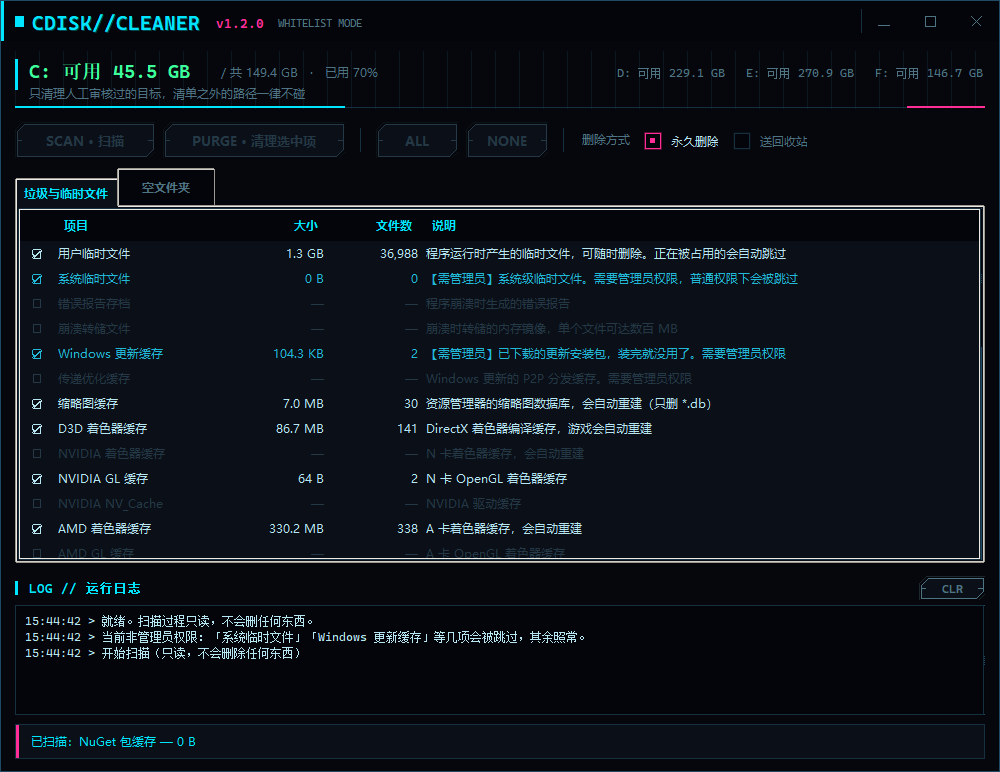
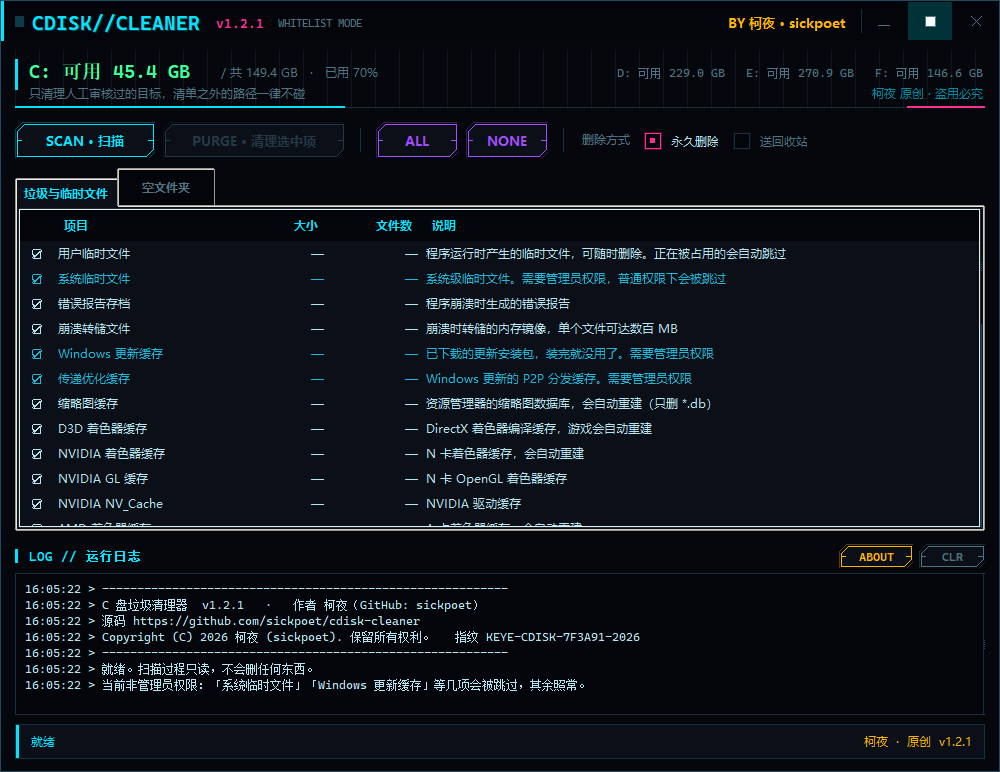
feat: 全链路加上作者署名，提高抄袭成本
- 新增 __author__/__author_id__/__copyright__/__homepage__/FINGERPRINT 常量
- 五处常驻署名：标题栏 BY 柯夜、窗口标题、仪表盘右下角水印、
  状态条右侧（可点击）、启动日志横幅
- 日志栏加 ABOUT 按钮，配「关于」对话框（作者/版本/仓库/指纹）
- 支持 cdisk_cleaner.py --version 输出作者与指纹
- exe 版本资源：公司名改为柯夜，版权与备注带仓库地址
- 四份 .py 补版权头；LICENSE 版权行与 README「作者与出处」章节
- 模块文档字符串内嵌零宽字符水印，可解码还原作者标识
- selftest 新增「署名与出处」6 项（含水印解码），署名被抹 CI 立刻红
- 刷新 README 截图，版本 1.2.1 -> 1.2.2

diff --git a/cdisk_cleaner.py b/cdisk_cleaner.py
@@ -13,10 +13,25 @@ C 盘垃圾清理器
 4. 空目录单列：默认不勾选，且强制跳过系统保护区。
 
 只用标准库，零第三方依赖。
+
+作者：柯夜（GitHub: sickpoet）
+版权：Copyright (C) 2026 柯夜。保留所有权利。
+源码：https://github.com/sickpoet/cdisk-cleaner
+
+
 """
 
-__version__ = "1.2.1"
+__version__ = "1.2.2"
+__author__ = "柯夜"
+__author_id__ = "sickpoet"
+__copyright__ = "Copyright (C) 2026 柯夜 (sickpoet). 保留所有权利。"
+__homepage__ = "https://github.com/sickpoet/cdisk-cleaner"
 APP_NAME = "C 盘垃圾清理器"
+
+# 出处指纹：同一串同时写进 exe 文件属性、启动日志与「关于」对话框，
+# 用来证明这份程序出自上述仓库。
+FINGERPRINT = "KEYE-CDISK-7F3A91-2026"
+SIGN_LINE = "柯夜 原创 · 盗用必究"
 
 import ctypes
 import glob
@@ -1217,7 +1232,8 @@ class CleanerApp(object):
 
         pick_fonts(root)
         _set_window_icon(root)
-        root.title("%s  ::  v%s" % (APP_NAME, __version__))
+        root.title("%s  v%s   ·   by %s" % (APP_NAME, __version__,
+                                              __author__))
         # 根窗口底色当窗口外框用：内容区四周留 1px 露出它
         root.configure(bg=BORDER_HI)
         root.geometry("1000x772")
@@ -1250,6 +1266,7 @@ class CleanerApp(object):
             apply_dark_titlebar(root)
         self._build_ui()
         self._refresh_drive_info()
+        self._log_banner()
         self.log("就绪。扫描过程只读，不会删任何东西。")
         if not is_admin():
             self.log("当前非管理员权限：「系统临时文件」「Windows 更新缓存」"
@@ -1338,10 +1355,13 @@ class CleanerApp(object):
         NeonButton(log_head, "CLR", lambda: self.log_text.delete("1.0", "end"),
                    width=66, height=24, color=TEXT_DIM,
                    font=(FONT_EN, 9, "bold")).pack(side="right")
+        NeonButton(log_head, "ABOUT", lambda: self._show_about(),
+                   width=74, height=24, color=AMBER,
+                   font=(FONT_EN, 9, "bold")).pack(side="right", padx=(0, 6))
 
         logf = tk.Frame(body, bg=BG)
         self.log_text = tk.Text(
-            logf, height=6, wrap="none", font=(FONT_EN, 9),
+            logf, height=8, wrap="none", font=(FONT_EN, 9),
             bg=BG_DEEP, fg=TEXT, insertbackground=CYAN, relief="flat",
             borderwidth=0, padx=9, pady=6,
             selectbackground="#10465c", selectforeground="#ffffff",
@@ -1362,6 +1382,13 @@ class CleanerApp(object):
         self.status = tk.Label(statusbar, text="就绪", bg=PANEL, fg=CYAN,
                                font=(FONT_UI, 9), anchor="w", padx=10, pady=6)
         self.status.pack(side="left", fill="x", expand=True)
+        # 常驻署名：任何界面状态下都在，截图必然带上。点它开「关于」
+        self._sign = tk.Label(
+            statusbar, text="%s  ·  原创  v%s" % (__author__, __version__),
+            bg=PANEL, fg=AMBER, font=(FONT_UI, 9), anchor="e",
+            padx=10, pady=6, cursor="hand2")
+        self._sign.pack(side="right")
+        self._sign.bind("<Button-1>", lambda _e: self._show_about())
 
         # --- 布局顺序：pack 按调用顺序分配空间，先来的先拿到固定高度。
         # 日志与状态条用 side="bottom" 自下而上贴边，Notebook 最后 pack 吃剩余空间。
@@ -1415,6 +1442,9 @@ class CleanerApp(object):
         self.head.create_text(14, 42, anchor="w", fill=TEXT_DIM,
                               font=(FONT_UI, 9),
                               text="只清理人工审核过的目标，清单之外的路径一律不碰")
+        # 右下角署名水印，跟随窗口宽度右对齐
+        self.head.create_text(w - 2, 42, anchor="e", fill=_mix(CYAN, 0.62),
+                              font=(FONT_UI, 9), text=SIGN_LINE)
 
         # 底部霓虹分割线
         self.head.create_line(0, h - 2, w, h - 2, fill=BORDER)
@@ -1465,6 +1495,10 @@ class CleanerApp(object):
         # 右侧三个窗口按钮
         bw = 46
         x = w - bw * 3
+        # 紧贴窗口按钮左侧的常驻署名
+        self.tb.create_text(x - 16, 21, anchor="e",
+                            text="BY %s · %s" % (__author__, __author_id__),
+                            fill=AMBER, font=(FONT_UI, 10, "bold"))
         self.tb.create_line(x, 8, x, h - 8, fill=BORDER)
         self._tb_button("min", x, bw, h)
         self._tb_button("max", x + bw, bw, h)
@@ -1870,6 +1904,33 @@ class CleanerApp(object):
     def log(self, msg):
         self.log_text.insert("end", "%s > %s\n" % (time.strftime("%H:%M:%S"), msg))
         self.log_text.see("end")
+
+    def _log_banner(self):
+        """启动横幅：跑一遍就会在日志里留下出处，抄走界面也抄不走这段输出。"""
+        bar = "-" * 58
+        self.log(bar)
+        self.log("%s  v%s   ·   作者 %s（GitHub: %s）"
+                 % (APP_NAME, __version__, __author__, __author_id__))
+        self.log("源码 %s" % __homepage__)
+        self.log("%s   指纹 %s" % (__copyright__, FINGERPRINT))
+        self.log(bar)
+
+    def _show_about(self):
+        """关于对话框：作者、版本、仓库、版权、指纹。"""
+        from tkinter import messagebox
+        messagebox.showinfo(
+            "关于 " + APP_NAME,
+            "%s\n\n"
+            "版本    v%s\n"
+            "作者    %s（GitHub: %s）\n"
+            "源码    %s\n"
+            "指纹    %s\n\n"
+            "%s\n\n"
+            "本程序为原创工具，源码公开。\n"
+            "欢迎转发原版链接，请勿改名倒卖或二次打包冒充原创。"
+            % (APP_NAME, __version__, __author__, __author_id__,
+               __homepage__, FINGERPRINT, __copyright__),
+            parent=self.root)
 
     def set_status(self, text):
         self.status.configure(text=text)
@@ -2294,6 +2355,16 @@ def _fatal(msg, title=APP_NAME):
 
 def main():
     global tk
+
+    if "--version" in sys.argv or "-V" in sys.argv:
+        info = ("%s v%s\n作者 %s（GitHub: %s）\n%s\n指纹 %s\n源码 %s\n"
+                % (APP_NAME, __version__, __author__, __author_id__,
+                   __copyright__, FINGERPRINT, __homepage__))
+        try:
+            sys.stdout.write(info)
+        except UnicodeEncodeError:
+            sys.stdout.buffer.write(info.encode("utf-8"))
+        return 0
 
     if not IS_WINDOWS:
         _fatal("本工具仅支持 Windows。")

diff --git a/build_exe.py b/build_exe.py
@@ -2,6 +2,9 @@
 """
 一键打包成 exe。
 
+Copyright (C) 2026 柯夜 (sickpoet). 保留所有权利。
+源码：https://github.com/sickpoet/cdisk-cleaner
+
 做四件事：
   1. 从主程序读 __version__（版本号的唯一来源，别在别处硬编码）
   2. 生成图标（调用 make_icon.py）
@@ -27,7 +30,12 @@ import sys
 
 APP_NAME = "cdisk-cleaner"
 DISPLAY_NAME = "C 盘垃圾清理器"
-COMPANY = "sickpoet"
+# exe 文件属性里显示的公司与版权。文件名保持 ASCII，中文只出现在字符串里。
+COMPANY = "柯夜"
+AUTHOR_ID = "sickpoet"      # GitHub 账号，写进文件属性「备注」
+HOMEPAGE = "https://github.com/sickpoet/cdisk-cleaner"
+COPYRIGHT_HOLDER = "%s (%s)" % (COMPANY, AUTHOR_ID)
+COMMENT = "作者 %s · %s" % (COPYRIGHT_HOLDER, HOMEPAGE)
 MAIN_SCRIPT = "cdisk_cleaner.py"
 ICON_FILE = "icon.ico"
 VERSION_FILE = "version_info.txt"
@@ -49,11 +57,12 @@ VSVersionInfo(
   kids=[
     StringFileInfo([
       StringTable('080404b0', [
+        StringStruct('Comments', '%(comment)s'),
         StringStruct('CompanyName', '%(company)s'),
         StringStruct('FileDescription', '%(display)s'),
         StringStruct('FileVersion', '%(version)s'),
         StringStruct('InternalName', '%(name)s'),
-        StringStruct('LegalCopyright', 'Copyright (C) 2026 %(company)s'),
+        StringStruct('LegalCopyright', 'Copyright (C) 2026 %(holder)s'),
         StringStruct('OriginalFilename', '%(name)s.exe'),
         StringStruct('ProductName', '%(display)s'),
         StringStruct('ProductVersion', '%(version)s')
@@ -120,6 +129,8 @@ def write_version_file(version):
         "display": DISPLAY_NAME,
         "name": APP_NAME,
         "company": COMPANY,
+        "holder": COPYRIGHT_HOLDER,
+        "comment": COMMENT,
     }
     path = os.path.join(here(), VERSION_FILE)
     with open(path, "w", encoding="utf-8") as fh:
@@ -195,7 +206,9 @@ def main():
     check_tkinter()
     version = read_version()
 
-    print("%s  v%s" % (DISPLAY_NAME, version))
+    print("%s  v%s   ·   %s (%s)" % (DISPLAY_NAME, version,
+                                     COMPANY, AUTHOR_ID))
+    print("      出处  : %s" % HOMEPAGE)
     print("      解释器: %s" % sys.executable)
     print("      模式  : %s" % ("目录版" if args.onedir else "单文件版"))
 

diff --git a/selftest.py b/selftest.py
@@ -2,6 +2,9 @@
 """
 回归自检：路径守卫、扫描与清理、界面组件。
 
+Copyright (C) 2026 柯夜 (sickpoet). 保留所有权利。
+源码：https://github.com/sickpoet/cdisk-cleaner
+
     python selftest.py
 
 「必须拦住」那一组是安全底线，任何一条挂掉都说明守卫被动坏了，
@@ -183,6 +186,35 @@ except OSError as exc:
 finally:
     C._rmtree_force(sandbox)
     check("清理测试目录", not os.path.exists(sandbox))
+
+print("\n=== 署名与出处 ===")
+# 这组是防篡改的：署名被人抹掉或改掉，这里立刻红。
+check("__author__ 是柯夜", C.__author__ == "柯夜", C.__author__)
+check("__author_id__ 是 sickpoet", C.__author_id__ == "sickpoet",
+      C.__author_id__)
+check("版权串含作者名",
+      bool(C.__copyright__) and C.__author__ in C.__copyright__,
+      C.__copyright__)
+check("主页指向原仓库",
+      "github.com/sickpoet/cdisk-cleaner" in C.__homepage__, C.__homepage__)
+check("指纹非空", bool(C.FINGERPRINT), C.FINGERPRINT)
+
+# 模块文档字符串里嵌的零宽水印。整段复制源码时它会跟着走，
+# 用来在抄袭发生后追溯出处。编码：U+200B=1 / U+200C=0 / U+200D=分隔。
+_zw = [c for c in (C.__doc__ or "") if c in "\u200b\u200c\u200d"]
+_wm_bits, _wm = "", []
+for _c in _zw:
+    if _c == "\u200d":
+        if _wm_bits:
+            _wm.append(chr(int(_wm_bits, 2)))
+        _wm_bits = ""
+    else:
+        _wm_bits += "1" if _c == "\u200b" else "0"
+_wm = "".join(_wm)
+check("源码水印可解码且含作者标识",
+      "柯夜" in _wm and "sickpoet" in _wm, _wm or "（没找到水印）")
+if _wm:
+    print("       水印明文: %s" % _wm)
 
 def _finish():
     """结算并退出。提出来是为了让 --no-gui 能在界面用例之前就收工。"""

diff --git a/make_icon.py b/make_icon.py
@@ -2,6 +2,9 @@
 """
 程序化生成图标：赛博朋克垃圾桶。
 
+Copyright (C) 2026 柯夜 (sickpoet). 保留所有权利。
+源码：https://github.com/sickpoet/cdisk-cleaner
+
 配色和界面共用一套：近黑底 + 霓虹青描边 + 品红点缀。
 在 8 倍分辨率上绘制再 LANCZOS 缩小，边缘比直接画小图干净得多；
 16/20px 会糊，所以单独给一套加粗的简化造型。

diff --git a/README.md b/README.md
@@ -158,6 +158,31 @@ python build_exe.py
 - Windows 7 及以上（在 Windows 10 22H2 上实测）
 - Python 3.8+（仅从源码运行时需要，且要带 tkinter）
 
+## 作者与出处
+
+- **作者**：柯夜（GitHub: [sickpoet](https://github.com/sickpoet)）
+- **仓库**：https://github.com/sickpoet/cdisk-cleaner
+- **指纹**：`KEYE-CDISK-7F3A91-2026`
+
+作者与出处出现在下面这些地方，跑一遍或截个图就能看到：
+
+| 位置 | 内容 |
+|---|---|
+| 标题栏右侧 | `BY 柯夜 · sickpoet` |
+| 窗口标题（任务栏 / Alt+Tab） | `C 盘垃圾清理器  v1.2.2   ·   by 柯夜` |
+| 顶部仪表盘右下角 | `柯夜 原创 · 盗用必究` |
+| 状态条右侧（可点击） | `柯夜 · 原创 v1.2.2` → 打开「关于」对话框 |
+| 运行日志开头 | 横幅：作者、仓库、版权、指纹 |
+| 「关于」按钮 | 完整信息，含指纹 |
+| exe 文件属性 | 公司、版权、备注里都写着出处 |
+| 命令行 `--version` | 纯文本输出，便于脚本核对 |
+
+源码里还嵌了一段**不可见的零宽字符水印**（藏在模块文档字符串中），
+整段复制源码时会跟着走，用于追溯来源。
+
+**转发、二次分发都欢迎**，但按 MIT 许可的要求，必须保留版权声明与作者署名。
+把界面和源码里的署名抹掉、改名冒充原创再发布，是违反许可条款的。
+
 ## License
 
-MIT
+MIT（见 [LICENSE](LICENSE)），版权归柯夜所有。
